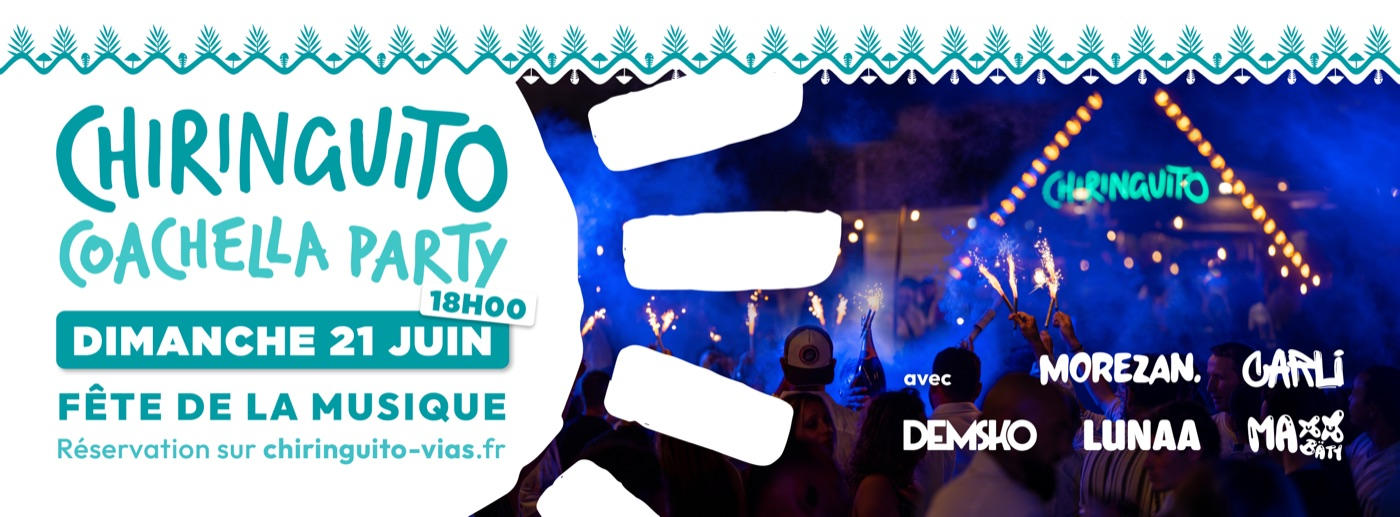
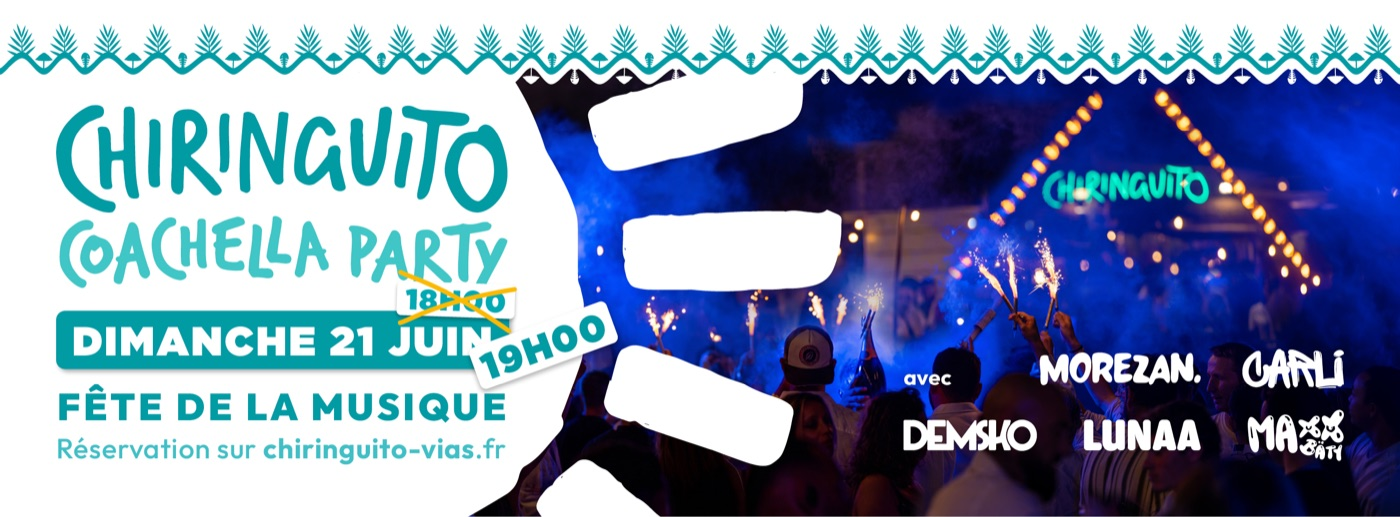
Coachella : horaire 18h -> 19h + affiches mises a jour
- Heure passee a 19h partout : card Dansez, popup (alt + microcopy), schema
  Event (startDate 2026-06-21T19:00), llms.txt.
- Images popup re-optimisees depuis les nouvelles affiches (horizontale +
  verticale) fournies par le client (affichent 19H00). Dimension verticale
  ajustee (1000x1333).

diff --git a/index.html b/index.html
@@ -240,8 +240,8 @@
       {
         "@type": "Event",
         "name": "Coachella Party 2026 - Chiringuito Vias",
-        "description": "Soiree Coachella au Chiringuito Vias-Plage le dimanche 21 juin 2026 a partir de 18h, soir de la Fete de la Musique. Ambiance festival, tenues colorees et grand DJ set nocturne en bord de mer, porte par les DJs residents du Chiringuito.",
-        "startDate": "2026-06-21T18:00:00+02:00",
+        "description": "Soiree Coachella au Chiringuito Vias-Plage le dimanche 21 juin 2026 a partir de 19h, soir de la Fete de la Musique. Ambiance festival, tenues colorees et grand DJ set nocturne en bord de mer, porte par les DJs residents du Chiringuito.",
+        "startDate": "2026-06-21T19:00:00+02:00",
         "endDate": "2026-06-22T02:00:00+02:00",
         "eventStatus": "https://schema.org/EventScheduled",
         "eventAttendanceMode": "https://schema.org/OfflineEventAttendanceMode",
@@ -1223,7 +1223,7 @@
               <!-- Date -->
               <p class="text-xs font-medium tracking-[0.25em] uppercase text-green-900/80 mb-1 whitespace-nowrap">Dimanche 21 juin</p>
               <h3 class="font-display text-3xl md:text-4xl text-green-900 leading-tight mb-3 whitespace-nowrap">Coachella Party</h3>
-              <p class="text-sm text-green-900/70 leading-relaxed mb-8 flex-1">D&egrave;s 18h, le soir de la <strong class="text-green-950">F&ecirc;te de la Musique</strong>&nbsp;: ambiance festival, tenues color&eacute;es et grand DJ set nocturne face mer. La nuit qui lance l'&eacute;t&eacute;.</p>
+              <p class="text-sm text-green-900/70 leading-relaxed mb-8 flex-1">D&egrave;s 19h, le soir de la <strong class="text-green-950">F&ecirc;te de la Musique</strong>&nbsp;: ambiance festival, tenues color&eacute;es et grand DJ set nocturne face mer. La nuit qui lance l'&eacute;t&eacute;.</p>
               <!-- CTA (reservation a venir) -->
               <a href="https://ypl.me/RM0" target="_blank" rel="noopener noreferrer" class="inline-flex items-center justify-center gap-2 w-full bg-gradient-to-r from-lime-500 via-amber-400 to-orange-500 text-white px-5 py-3 rounded-full text-xs font-semibold uppercase tracking-widest hover:gap-3 hover:scale-[1.02] shadow-md hover:shadow-lg transition-all duration-300">
                 R&eacute;server ma place
@@ -1717,8 +1717,8 @@
       </button>
       <a href="https://ypl.me/RM0" target="_blank" rel="noopener noreferrer" class="block" aria-label="Reserver pour la Coachella Party sur Yurplan">
         <picture>
-          <source media="(max-width: 639px)" srcset="images/coachella-popup-vertical.jpg" width="1000" height="1410"/>
-          <img src="images/coachella-popup.jpg" alt="Coachella Party au Chiringuito - dimanche 21 juin des 18h, soir de la Fete de la Musique" class="w-full h-auto block" width="1400" height="517" loading="lazy" />
+          <source media="(max-width: 639px)" srcset="images/coachella-popup-vertical.jpg" width="1000" height="1333"/>
+          <img src="images/coachella-popup.jpg" alt="Coachella Party au Chiringuito - dimanche 21 juin des 19h, soir de la Fete de la Musique" class="w-full h-auto block" width="1400" height="517" loading="lazy" />
         </picture>
       </a>
       <div class="p-5 sm:p-6">
@@ -1726,7 +1726,7 @@
           R&eacute;server ma place
           <svg class="w-4 h-4" fill="none" stroke="currentColor" viewBox="0 0 24 24"><path stroke-linecap="round" stroke-linejoin="round" stroke-width="2.5" d="M14 5l7 7m0 0l-7 7m7-7H3"/></svg>
         </a>
-        <p class="text-center text-xs text-gray-400 mt-3">Billetterie s&eacute;curis&eacute;e Yurplan &middot; dimanche 21 juin, d&egrave;s 18h</p>
+        <p class="text-center text-xs text-gray-400 mt-3">Billetterie s&eacute;curis&eacute;e Yurplan &middot; dimanche 21 juin, d&egrave;s 19h</p>
       </div>
     </div>
   </div>